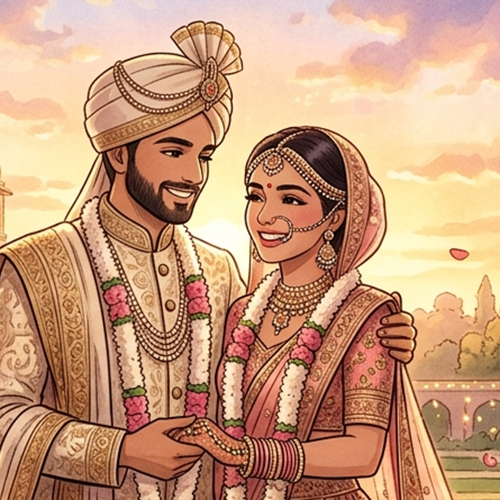
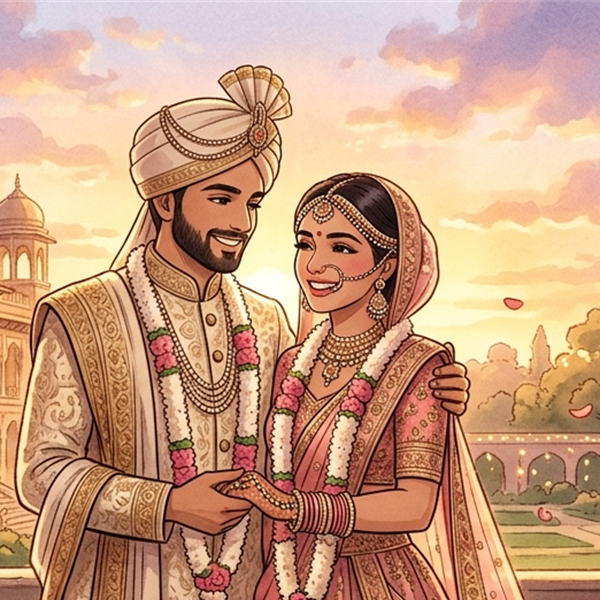
Fix closing cameo clipping by removing overflow hidden and adding top clearance

diff --git a/src/app/components/closing/closing.component.ts b/src/app/components/closing/closing.component.ts
@@ -71,7 +71,8 @@ import { TranslationService } from '../../services/translation.service';
     .closing-section {
       background: linear-gradient(180deg, #F8EFE3 0%, #FAF6EF 50%, #F5ECDD 100%);
       position: relative;
-      overflow: hidden;
+      overflow: visible;
+      padding-top: 7rem;
     }
 
     .closing-radiance {
@@ -89,32 +90,34 @@ import { TranslationService } from '../../services/translation.service';
     .closing-card {
       max-width: 820px;
       margin: 0 auto;
-      padding: 4.5rem 3rem 4rem 3rem;
+      padding: 5rem 3rem 4rem 3rem;
       text-align: center;
       background: rgba(255, 255, 255, 0.94);
       border: 2px solid rgba(197, 160, 89, 0.4);
       border-radius: 36px;
       box-shadow: 0 24px 60px -10px rgba(122, 25, 43, 0.12), 0 8px 30px rgba(197, 160, 89, 0.15);
       position: relative;
+      overflow: visible !important;
     }
 
     /* Cameo Frame */
     .cameo-frame-wrapper {
       position: relative;
-      width: 140px;
-      height: 140px;
-      margin: -7.25rem auto 1.5rem auto;
+      z-index: 10;
+      width: 150px;
+      height: 150px;
+      margin: -8.25rem auto 1.75rem auto;
       border-radius: 50%;
       padding: 6px;
       background: linear-gradient(135deg, #F3D99F 0%, #C5A059 50%, #9B7733 100%);
-      box-shadow: 0 14px 34px rgba(122, 25, 43, 0.22), 0 4px 14px rgba(197, 160, 89, 0.35);
+      box-shadow: 0 16px 36px rgba(122, 25, 43, 0.24), 0 6px 18px rgba(197, 160, 89, 0.4);
       transition: transform 0.4s cubic-bezier(0.16, 1, 0.3, 1), box-shadow 0.4s ease;
       cursor: pointer;
     }
 
     .cameo-frame-wrapper:hover {
       transform: scale(1.06) translateY(-2px);
-      box-shadow: 0 20px 42px rgba(122, 25, 43, 0.28), 0 6px 20px rgba(197, 160, 89, 0.45);
+      box-shadow: 0 22px 46px rgba(122, 25, 43, 0.3), 0 8px 24px rgba(197, 160, 89, 0.5);
     }
 
     .cameo-img {
@@ -122,7 +125,7 @@ import { TranslationService } from '../../services/translation.service';
       height: 100%;
       border-radius: 50%;
       object-fit: cover;
-      object-position: center 10%;
+      object-position: center center;
       border: 3px solid #FFFFFF;
       display: block;
       transition: transform 0.6s ease;
@@ -217,15 +220,19 @@ import { TranslationService } from '../../services/translation.service';
     }
 
     @media (max-width: 640px) {
+      .closing-section {
+        padding-top: 5.5rem;
+      }
+
       .closing-card {
-        padding: 3.5rem 1.5rem 2.5rem 1.5rem;
+        padding: 4.5rem 1.5rem 2.5rem 1.5rem;
         border-radius: 24px;
       }
 
       .cameo-frame-wrapper {
-        width: 110px;
-        height: 110px;
-        margin-top: -5.5rem;
+        width: 120px;
+        height: 120px;
+        margin-top: -6.75rem;
       }
     }
   `]
